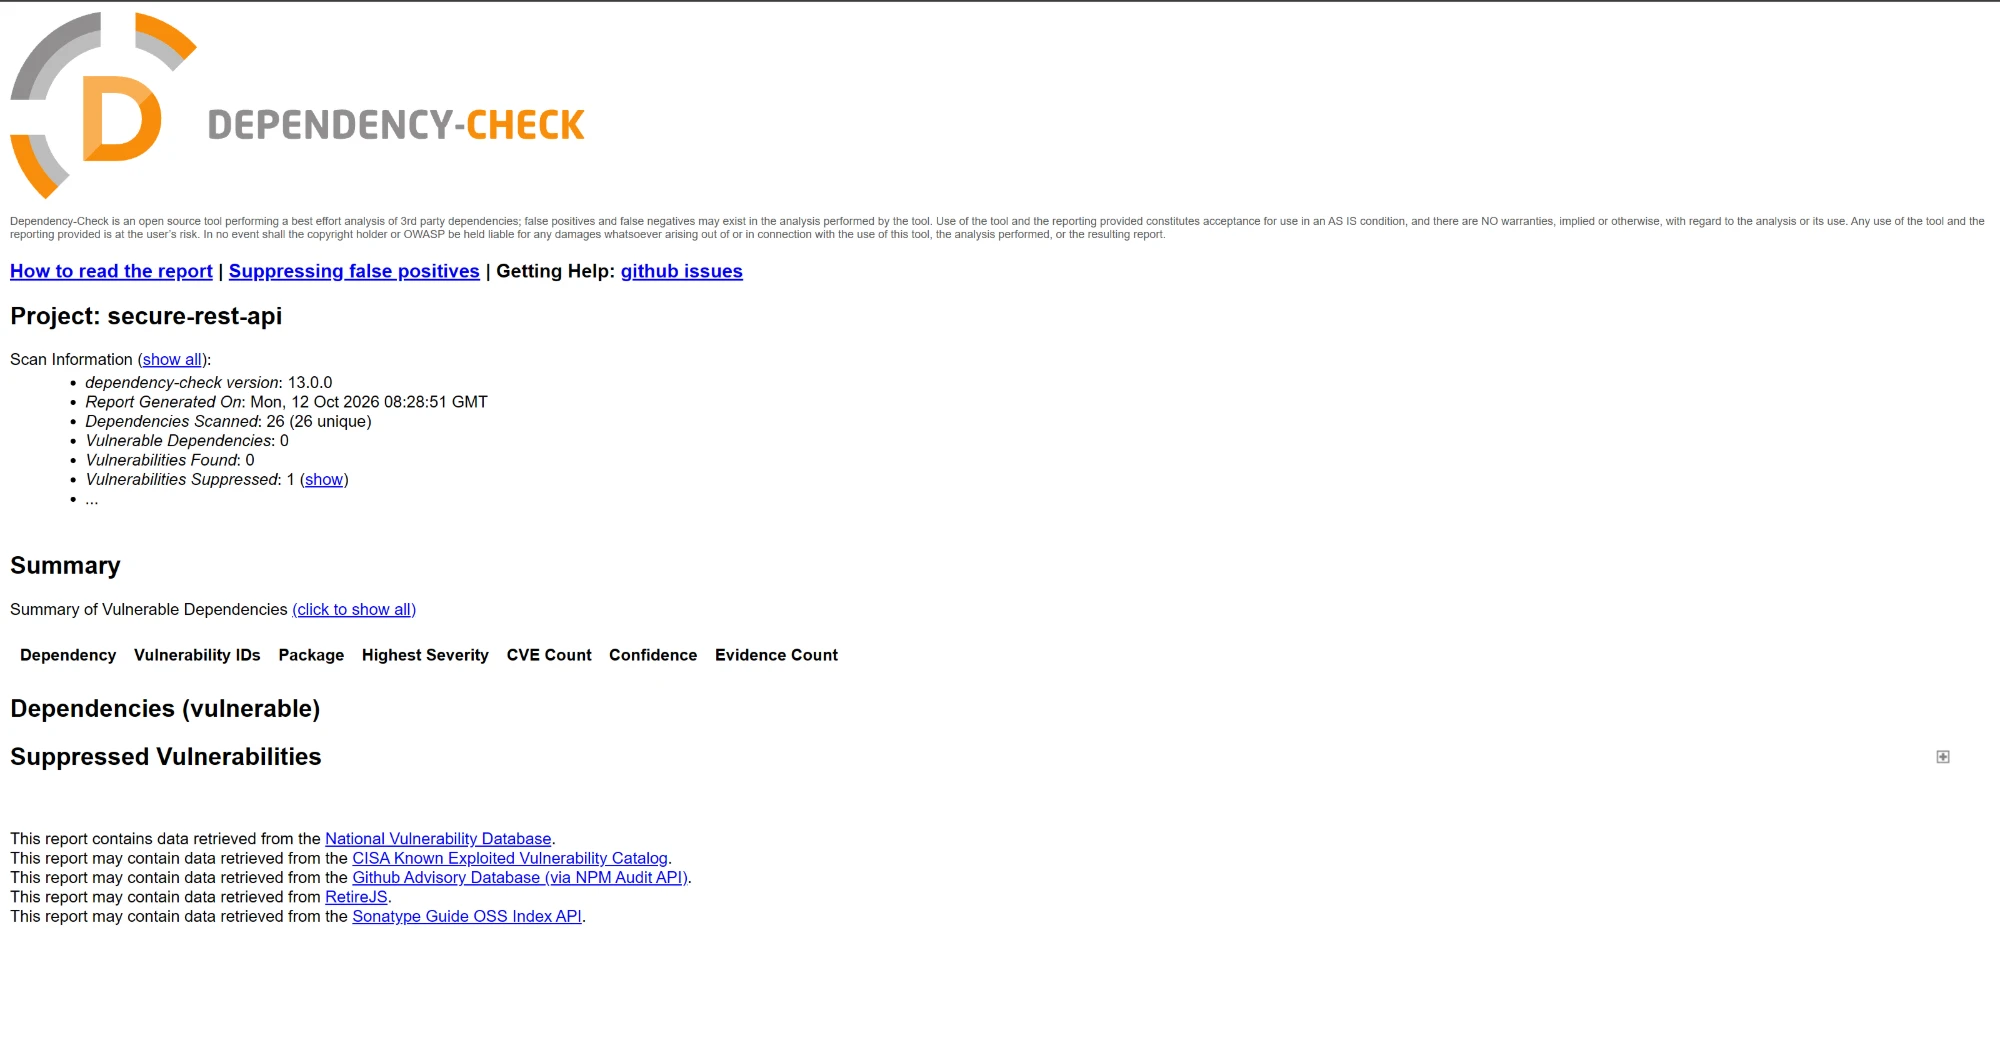
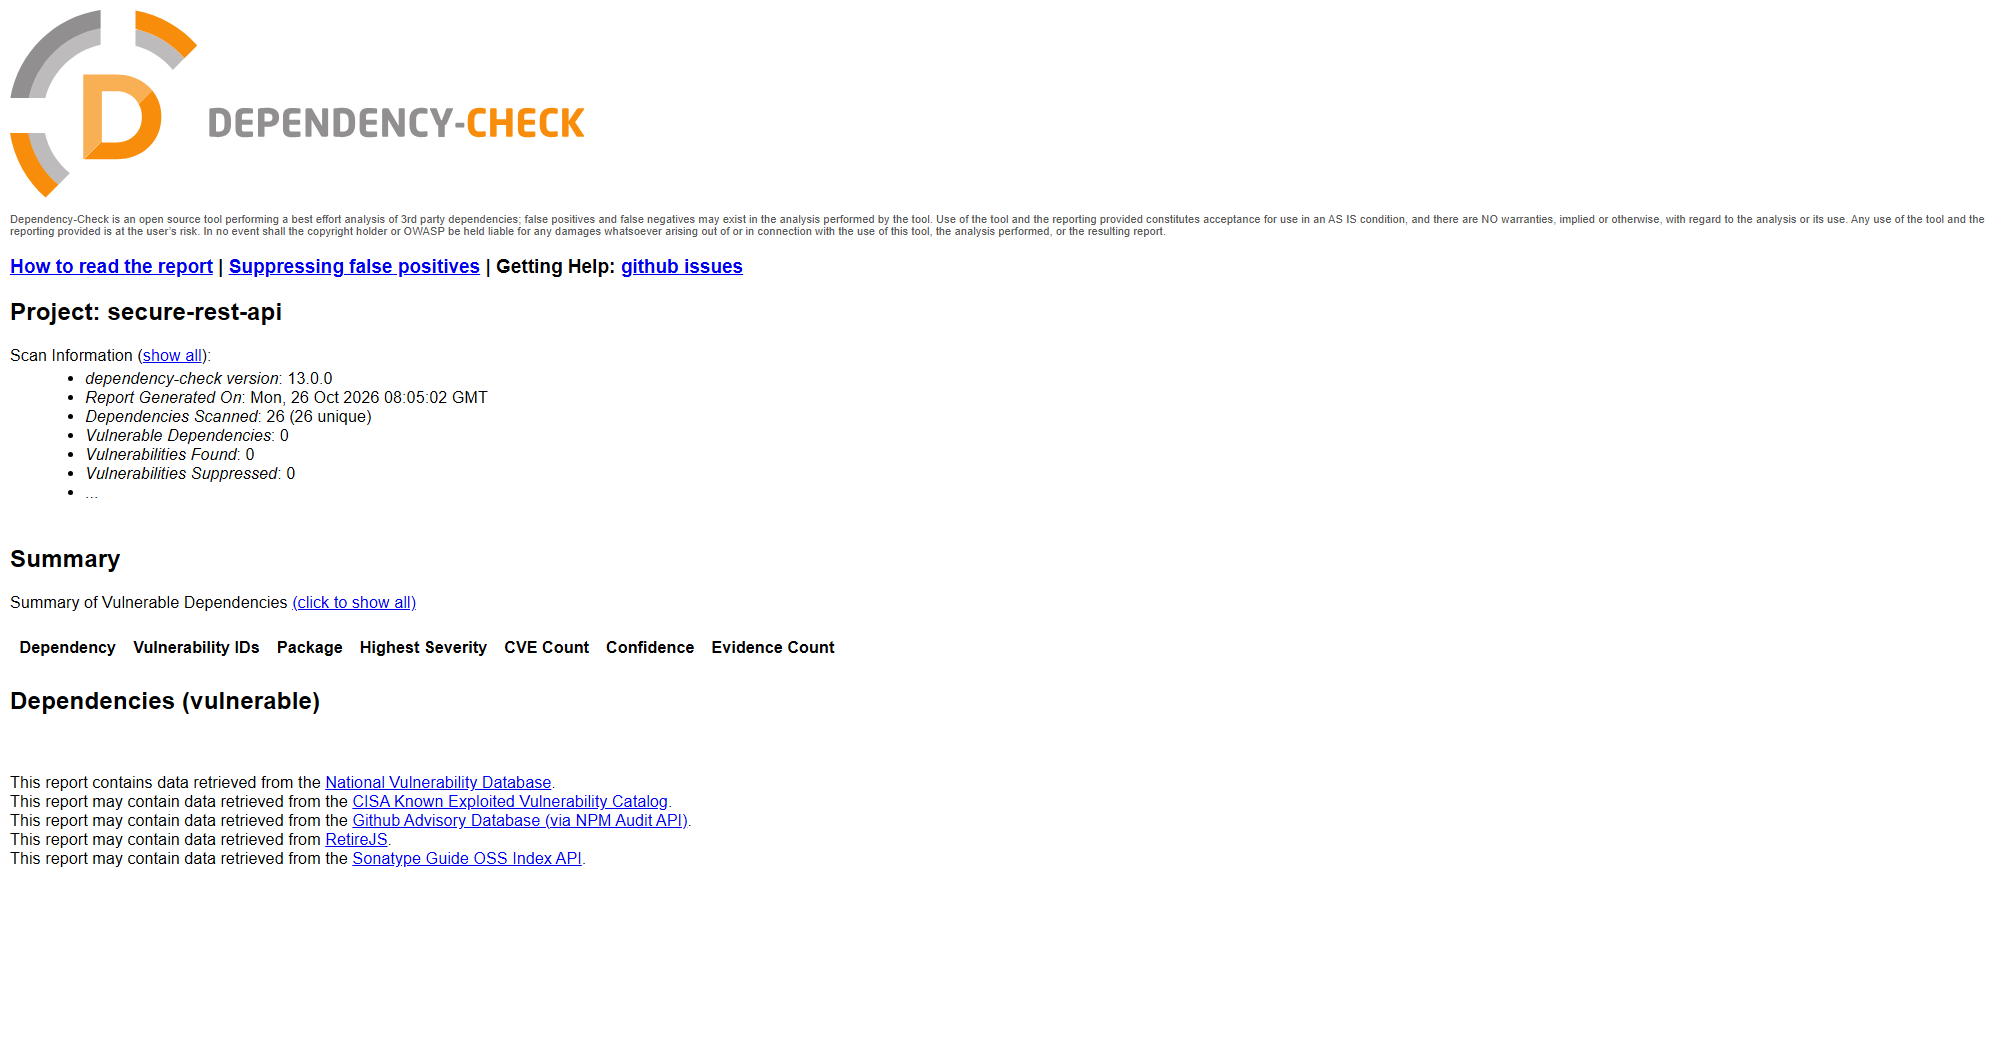
docs: скриншоты CI, bandit и Dependency-Check с запуска CI #30
Скриншоты пересняты с одного запуска после перехода на lock-файл:
Dependency-Check теперь 26 зависимостей и 0 подавленных. Подписи в README
обновлены, история CI #20 и #21 про Werkzeug оставлена.

diff --git a/README.md b/README.md
@@ -688,7 +688,8 @@ GitHub Actions (`.github/workflows/ci.yml`) запускается на кажд
 
 ### Скриншоты отчётов
 
-Запуск CI #21 (коммит `c56e8e0`): все четыре job прошли успешно, сохранено 4 артефакта.
+[Запуск CI #30](https://github.com/Goga211/secure-rest-api/actions/runs/40289762760) (коммит
+`99d3feb`): все четыре job прошли успешно, сохранено 4 артефакта.
 
 ![Запуск CI](docs/screenshots/ci-run.png)
 
@@ -701,8 +702,9 @@ RFC 6750, а не пароль. CI падает только на medium и вы
 ![Отчёт bandit](docs/screenshots/bandit-report.png)
 
 **SCA, OWASP Dependency-Check** (`dependency-check-report.html`): проверено 26 зависимостей,
-уязвимых 0, одна уязвимость подавлена с обоснованием (CVE-2025-45770, разбор ниже). После
-перехода на lock-файл (раздел «Зависимости») подавленных 0: почему, тоже в разборе ниже.
+уязвимых 0, подавленных 0. До перехода на lock-файл (раздел «Зависимости») здесь была одна
+уязвимость, подавленная с обоснованием, CVE-2025-45770; почему она больше не находится, описано
+в разборе ниже.
 
 ![Отчёт Dependency-Check](docs/screenshots/dependency-check-report.png)
 
@@ -740,7 +742,7 @@ werkzeug 3.1.8   CVE-2026-102598 3.1.9
 Исправление: в `requirements.txt` Werkzeug поднят до 3.1.9, где уязвимость закрыта (коммит
 `c56e8e0`). Тесты на новой версии прошли без изменений кода, и
 [запуск CI #21](https://github.com/Goga211/secure-rest-api/actions/runs/38223765166) прошёл
-полностью, со скриншотов выше. Так pipeline и должен работать: уязвимость в зависимости
+полностью. Так pipeline и должен работать: уязвимость в зависимости
 появилась в базе после того, как код был готов, и CI заблокировал сборку до обновления.
 Позже зависимости переведены на `requirements.in`, и там закреплена нижняя граница
 `Werkzeug>=3.1.9`: при перегенерации lock-файла уязвимая версия вернуться не может.
